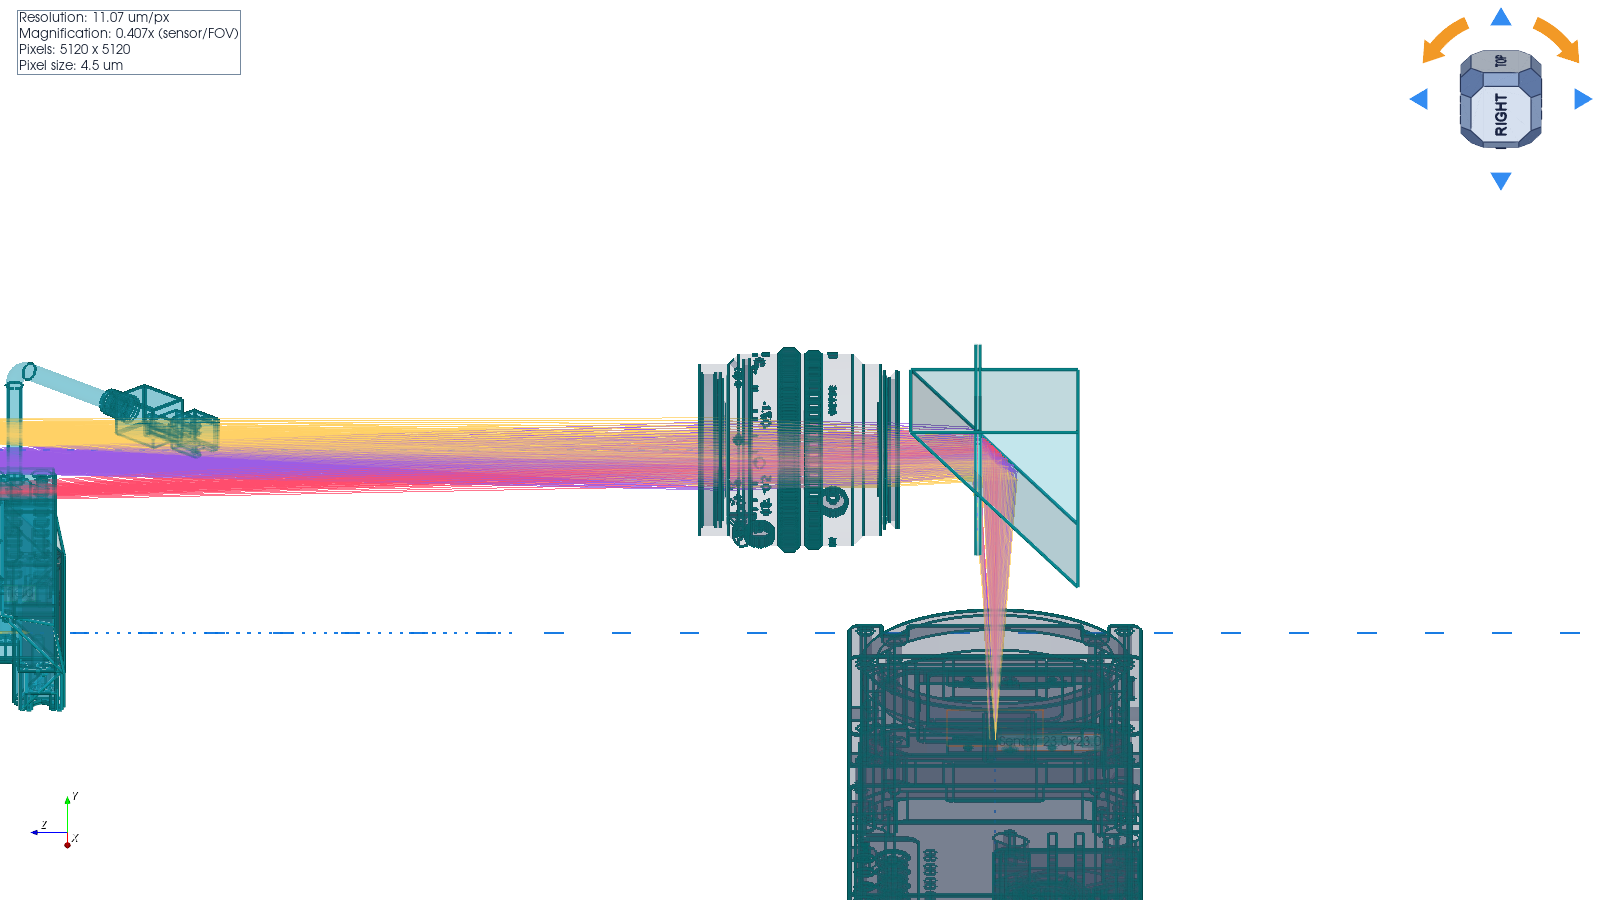
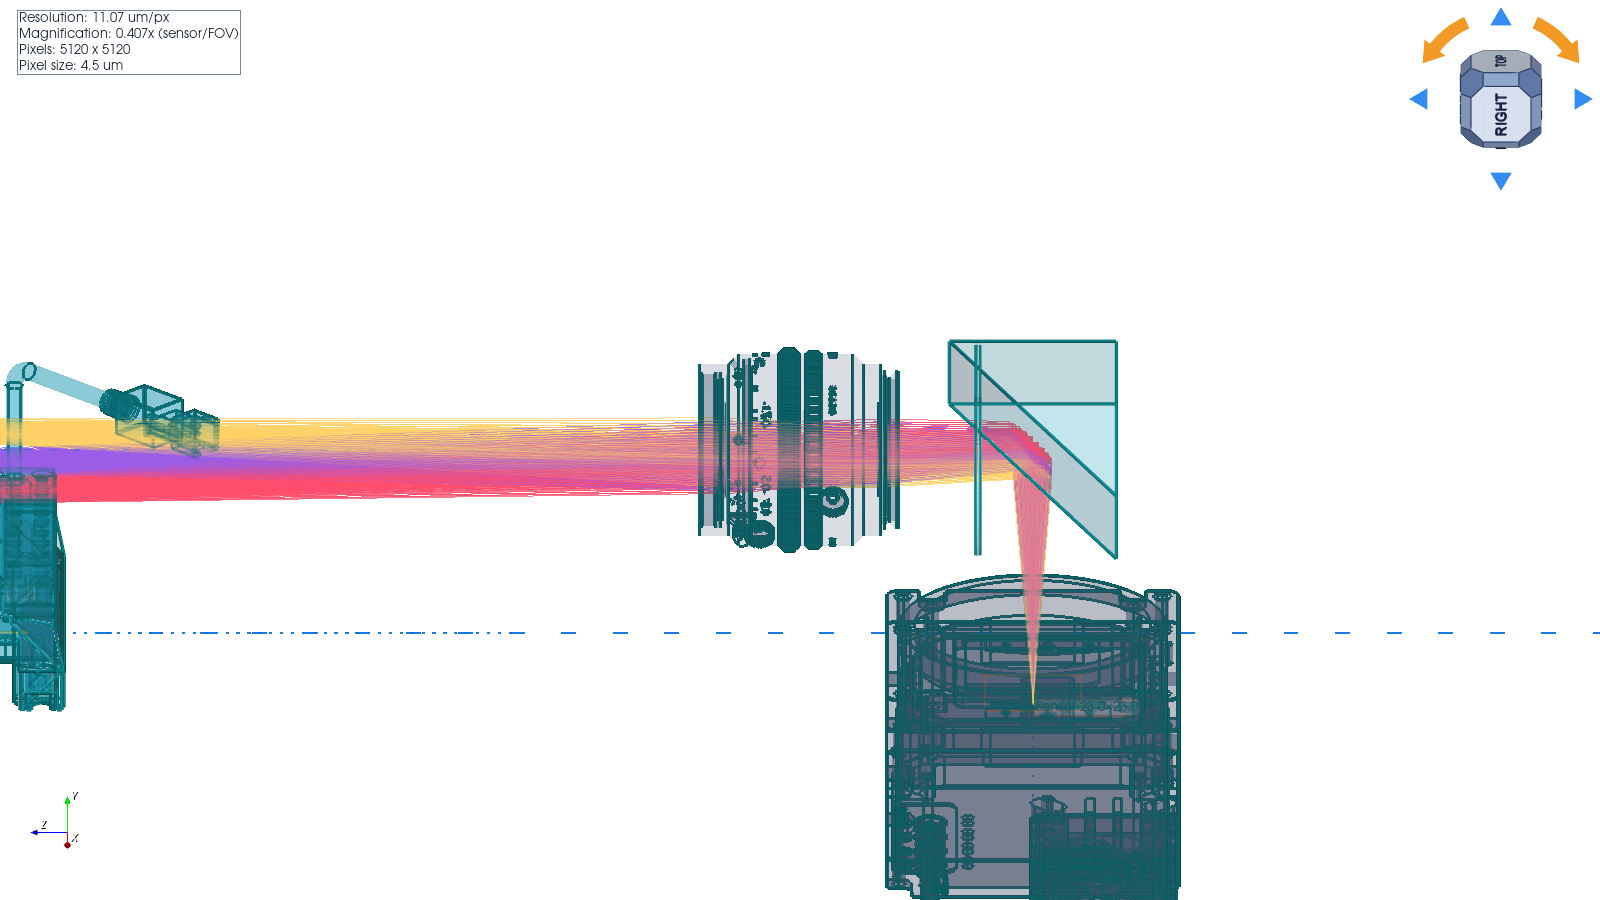
Open 3D: fold-carry pivots on the anchor walk-frame origins (0693 part 2)
Item 3 follow-through: mirror2 (frozen follower ROW) landed 18.7 mm off the
swung leg because the rigid carry pivoted on the EMISSION origin (the arm
chief, 9.46 mm off the walk axis) -- which also silently shrank the
lens-rear -> mirror2 arc 35.2 -> 25.7 mm (a hidden 9.5 mm defocus). The full
T_after inv(T_before) anchor map fixed both but its ROTATION injected the
walk frame's transverse-convention 180-degree roll: the sensor leg folded UP
(y +106 vs the designed 62.65 mm BELOW mirror2) and the one-sided split-field
band flipped sides. Final (all three models measured by tracing): the rigid
carry pivoted on the anchor walk-frame ORIGINS (on-axis = roll-invariant, at
the anchor row's station = arc-exact), tilts by the rigid leg rotation only;
emission-origin fallback when no walk frame exists. Measured: mirror2
(-9.456, 43.294, -297.7) off-leg 0.050 mm (= its authored CAD offset), arc
35.24 mm, sensor folds DOWN to y -19.36, chain reach 580/1083 vs 521
baseline. Known limitation documented: the faceB mirrored-launch instrument
assumes the shared train lies in the symmetry plane -- a PARTIAL rotation
breaks the instrument (not the physics); the whole-station rotate verb is the
production path. Guard D-pins updated (10/10); 0487/0491/0496 + om05a guard
green.

Claude-Session: https://claude.ai/code/session_01SuW8U8ERU6dgJbzEMv2EFu

Changed region(s): [[0.3438, 0.3733, 0.75, 1.0], [0.0, 0.4978, 0.5312, 0.56]]

diff --git a/KrakenOS/UI/services/scene_placement_commands.py b/KrakenOS/UI/services/scene_placement_commands.py
@@ -225,12 +225,39 @@ class ScenePlacementMixin:
                     except Exception:
                         anchor = None
                     bodies[label] = (centre, anchor)
+            # bugs/0693 follow-up (mirror2 off-leg): an ANCHOR walk frame for the emitted
+            # leg -- the fold transform of a walk-posed row riding this leg (the om05a lens
+            # block). The apply step maps every carried frozen row by T_after @ inv(T_before)
+            # so followers land where the WALK says the leg goes; the rigid fold-point model
+            # disagrees with the walk on a seated scene by the seat lateral (mirror2 landed
+            # 18.7 mm off the new leg, in its own mirror plane). None -> rigid fallback,
+            # byte-identical on fully-frozen scenes (no walk transforms there).
+            leg_anchor = None
+            try:
+                z_positions = self._row_z_positions()
+                for index in range(len(self.rows)):
+                    if int(index) == int(row_index):
+                        continue
+                    transform = self._optical_axis_fold_world_transform_for_row(index)
+                    if transform is None:
+                        continue
+                    matrix = np.asarray(transform, dtype=float).reshape(4, 4)
+                    if not np.all(np.isfinite(matrix)):
+                        continue
+                    z = float(z_positions[index]) if index < len(z_positions) else 0.0
+                    point = (matrix @ np.asarray((0.0, 0.0, z, 1.0), dtype=float))[:3]
+                    if axis_tree.point_on_emitted_leg(tree, int(row_index), point):
+                        leg_anchor = (int(index), matrix)
+                        break
+            except Exception:
+                leg_anchor = None
             return (
                 carried,
                 np.asarray(spec["origin"], dtype=float).reshape(3),
                 bodies,
                 self._fold_slide_conjugates(),
                 np.asarray(spec["direction"], dtype=float).reshape(3),
+                leg_anchor,
             )
         except Exception:
             return None
@@ -250,7 +277,7 @@ class ScenePlacementMixin:
         """
         if not captured:
             return
-        carried, fold_before, bodies_before, conjugates_before, direction_before = captured
+        carried, fold_before, bodies_before, conjugates_before, direction_before, leg_anchor = captured
         try:
             from KrakenOS.UI.nonseq_output_ports import axis_fold_emissions
         except Exception:
@@ -274,6 +301,36 @@ class ScenePlacementMixin:
         # 10 deg turns its emitted leg exactly 20.000 deg (the reflection law, which the
         # derivation already got right for free) while the sensor stayed put, 17.614 mm off the
         # beam that now feeds it.
+        # bugs/0693 follow-up: with a leg-anchor walk frame captured, carried rows map by
+        # T_after @ inv(T_before) -- "follow the walk" -- so a frozen follower (mirror2)
+        # lands ON the leg the walk actually emits, seat lateral included. The rigid
+        # fold-point transform stays as the fallback (fully-frozen scenes have no walk
+        # transforms and keep the proven 0488 behaviour byte-identical).
+        # PIVOT CORRECTION ONLY: keep the 0488 rigid transform (rotation = the minimal
+        # leg turn) but pivot it on the ANCHOR WALK-FRAME ORIGINS instead of the raw
+        # emission origin. Measured on the om05a -90 y rotation, this is exactly what
+        # was wrong with each alternative:
+        #  - emission-origin pivot (old code): the emission rides the ARM chief, 9.46 mm
+        #    off the walk axis, so mirror2 landed 18.7 mm off the new leg IN-plane and
+        #    the lens-rear -> mirror2 arc shrank 35.2 -> 25.7 mm (a hidden 9.5 mm
+        #    defocus);
+        #  - full T_after @ inv(T_before) map: the walk's transverse frame convention
+        #    injected a spurious 180-degree ROLL (sensor leg folded UP, 62.66 mm above
+        #    mirror2 where the design sits 62.65 BELOW; the one-sided split-field band
+        #    flipped sides and killed the faceB arm 381 -> 0).
+        # The walk-frame ORIGINS are on the axis (roll-invariant) at the anchor row's
+        # station (arc-exact), and the rigid rotation keeps the physical parity.
+        anchor_origins = None
+        if leg_anchor is not None:
+            try:
+                anchor_after = self._optical_axis_fold_world_transform_for_row(int(leg_anchor[0]))
+                if anchor_after is not None:
+                    o_before = np.asarray(leg_anchor[1], dtype=float).reshape(4, 4)[:3, 3]
+                    o_after = np.asarray(anchor_after, dtype=float).reshape(4, 4)[:3, 3]
+                    if np.all(np.isfinite(o_before)) and np.all(np.isfinite(o_after)):
+                        anchor_origins = (o_before, o_after)
+            except Exception:
+                anchor_origins = None
         self._fold_slide_carry_active = True
         try:
             for carried_index in carried:
@@ -283,7 +340,12 @@ class ScenePlacementMixin:
                 pose = self._fold_carry_row_world_pose(int(carried_index))
                 if pose is None:
                     continue
-                moved = self._fold_carry_transform_point(pose, fold_before, fold_after, rotation)
+                if anchor_origins is not None:
+                    moved = self._fold_carry_transform_point(
+                        pose, anchor_origins[0], anchor_origins[1], rotation
+                    )
+                else:
+                    moved = self._fold_carry_transform_point(pose, fold_before, fold_after, rotation)
                 shift = moved - pose
                 follower.desp_x = float(follower.desp_x) + float(shift[0])
                 follower.desp_y = float(follower.desp_y) + float(shift[1])

diff --git a/bugs/0693_repro_rotation.py b/bugs/0693_repro_rotation.py
@@ -59,6 +59,18 @@ def main():
             print(f"[{tag}] lens BODY centre {np.round([(b[0]+b[1])/2, (b[2]+b[3])/2, (b[4]+b[5])/2], 3)}")
         except Exception as exc:
             print(f"[{tag}] lens body mesh FAILED {exc}")
+        # 0693 follow-up: mirror2 must sit ON the lens leg (the shared axis), not
+        # 18.7 mm off it -- measure its perpendicular distance to the rows' line.
+        try:
+            m2_pose = np.asarray(editor._fold_carry_row_world_pose(m2), dtype=float)
+            a = np.asarray(editor._surface_reference_world_point(lens_rows[0]), dtype=float)
+            b2 = np.asarray(editor._surface_reference_world_point(lens_rows[-1]), dtype=float)
+            d = b2 - a
+            d = d / max(np.linalg.norm(d), 1e-9)
+            off = (m2_pose - a) - np.dot(m2_pose - a, d) * d
+            print(f"[{tag}] m2 world {np.round(m2_pose, 3)}  off-leg {np.linalg.norm(off):.3f} mm")
+        except Exception as exc:
+            print(f"[{tag}] m2 off-leg FAILED {exc}")
 
     snap("before")
 
@@ -77,9 +89,30 @@ def main():
     print(f"calling rotate_scene_row_pose_world_axis(row={m1}, axis={axis_name!r}, delta={signed:.1f})")
     result = editor.rotate_scene_row_pose_world_axis(m1, axis_name, signed)
     print("command result:", str(result)[:200])
-    editor._build_preview_system_rays_bundle(trace_rays=True)
+    system2, rays2, bundle2 = editor._build_preview_system_rays_bundle(trace_rays=True)
 
     snap("after")
+    # the fold must still DELIVER after the rotation -- reach census per arm.
+    # NOTE: additive faceB rays never set reaches_image (the 0672 B5 guard counts
+    # ENDPOINTS) -- measure faceB by end-point distance to the (moved) Image row.
+    img_row = len(editor.rows) - 1
+    img_pt = np.asarray(editor._surface_reference_world_point(img_row, system=system2), dtype=float)
+    chain_reach = face_b_reach = chain_total = face_b_total = 0
+    for rp in (getattr(bundle2, "ray_paths", None) or []):
+        sid = str(getattr(rp, "source_id", "") or "")
+        p = np.asarray(getattr(rp, "points_world", rp), dtype=float)
+        if p.ndim != 2 or p.shape[0] < 2 or not np.all(np.isfinite(p[-1])):
+            continue
+        near_sensor = float(np.linalg.norm(p[-1] - img_pt)) < 30.0
+        if sid == "source:faceB":
+            face_b_total += 1
+            face_b_reach += int(near_sensor)
+        else:
+            chain_total += 1
+            chain_reach += int(bool(getattr(rp, "reaches_image", False)))
+    print(f"[after] sensor ref {np.round(img_pt, 2)}; reach: chain {chain_reach}/{chain_total} "
+          f"(baseline 521/1083), faceB endpoints-near-sensor {face_b_reach}/{face_b_total} "
+          f"(baseline 381)")
     r1 = rows[m1]
     print(f"m1 tilt now ({float(r1.tilt_x):.1f}, {float(r1.tilt_y):.1f}, {float(r1.tilt_z):.1f}) "
           f"(flag says (-90, 0, 0))")

diff --git a/KrakenOS/UI/validate_open3d_0693_step_offset_frame.py b/KrakenOS/UI/validate_open3d_0693_step_offset_frame.py
@@ -113,13 +113,44 @@ def _check_frame_lookup(ok, notes) -> None:
     ok(np.allclose(r, np.eye(3)), "C4: a missing transform degrades to identity")
 
 
+def _check_carry_anchor_wiring(ok, notes) -> None:
+    """D (mirror2 follow-up): the fold-carry captures a leg-anchor walk frame and maps
+    carried rows by T_after @ inv(T_before), with the 0488 rigid transform as fallback --
+    source-pinned like 0487/0491/0496 (the om05a rotation repro is the behavioural proof:
+    mirror2 lands ON the swung leg instead of 18.7 mm off it)."""
+    import inspect
+
+    from KrakenOS.UI.services.scene_placement_commands import ScenePlacementMixin
+
+    before_src = inspect.getsource(ScenePlacementMixin._fold_slide_carry_before)
+    apply_src = inspect.getsource(ScenePlacementMixin._fold_slide_carry_apply)
+    ok(
+        "leg_anchor" in before_src
+        and "point_on_emitted_leg(tree, int(row_index), point)" in before_src,
+        "D1: the before-capture derives a leg-anchor walk frame via the SAME membership "
+        "primitive the bodies use",
+    )
+    ok(
+        "anchor_origins[0], anchor_origins[1], rotation" in apply_src
+        and "self._fold_carry_transform_point(pose, fold_before, fold_after, rotation)" in apply_src,
+        "D2: the apply pivots the rigid carry on the anchor walk-frame ORIGINS (roll-"
+        "invariant, arc-exact) and keeps the emission-origin fallback",
+    )
+    ok(
+        "anchor_rotation" not in apply_src
+        and "self._fold_carry_rotate_row_tilts(follower, rotation)" in apply_src,
+        "D3: carried tilts turn ONLY with the rigid leg rotation -- the walk frame's "
+        "roll convention must never reach an orientation (it folded the sensor leg UP)",
+    )
+
+
 def run_checks(verbose: bool = False, app=None, inspector=None) -> "tuple[bool, list[str]]":
     notes: list[str] = []
 
     def ok(condition: bool, message: str) -> None:
         notes.append(("PASS: " if condition else "FAIL: ") + message)
 
-    for check in (_check_writers, _check_frame_lookup):
+    for check in (_check_writers, _check_frame_lookup, _check_carry_anchor_wiring):
         try:
             check(ok, notes)
         except Exception as exc:

diff --git a/bugs/0693_step_offset_frame.md b/bugs/0693_step_offset_frame.md
@@ -47,12 +47,44 @@ the carry works). Repro matches the flag EXACTLY: m2 desp (9.2197, 43.5303,
   your rows"), falling back to the 0488 rigid fold-point transform only when no
   anchor frame exists. Identity/None frames are byte-identical to the old code.
 
-## Known follow-up (optically neutral, visually off)
-Mirror2 (a frozen follower ROW) still carries by the rigid model: it lands
-~18.7 mm off the new leg IN ITS OWN MIRROR PLANE (plane unchanged — the fold
-still works, rays reach the sensor; verified in the flag itself). The drawn
-prism sits visibly off the beam; carrying frozen follower rows anchor-relative
-is the next step if the user flags it.
+## Part 2 (user: "proceed with item 3") — frozen follower ROWS follow the walk too
+Mirror2 (a frozen follower ROW) still carried by the rigid model: it landed
+~18.7 mm off the new leg IN ITS OWN MIRROR PLANE (optically neutral — the flag
+itself showed rays reaching the sensor — but drawn visibly off the beam).
+Fix, same principle as the bodies: `_fold_slide_carry_before` captures a
+LEG-ANCHOR walk frame (the fold transform of a walk-posed row riding the
+emitted leg, membership decided by the same `point_on_emitted_leg` primitive
+the bodies use), and `_fold_slide_carry_apply` maps every carried row by
+T_after @ inv(T_before) — position AND tilts (anchor rotation). The rigid
+0488 fold-point transform remains the fallback when no walk frame exists
+(fully-frozen scenes stay byte-identical).
+
+Three carry models measured (bugs/0693_repro_rotation.py) before the final one:
+- EMISSION-ORIGIN rigid (old): mirror2 18.7 mm off-leg; lens-rear→mirror2 arc
+  shrank 35.2 → 25.7 mm (a hidden 9.5 mm defocus nobody had measured).
+- FULL T_after@inv(T_before) map: position + arc exact, but the walk frame's
+  transverse convention injected a spurious 180° ROLL — the sensor leg folded
+  UP (y +106, 62.66 above mirror2 where the design sits 62.65 BELOW) and the
+  one-sided split-field band flipped sides. Euler triples ((-180,0,-180) vs
+  (180,0,0)) must be settled by TRACING, never by reading angles.
+- FINAL: the rigid carry PIVOTED ON THE ANCHOR WALK-FRAME ORIGINS (on-axis =
+  roll-invariant; at the anchor row's station = arc-exact) with the rigid leg
+  rotation for tilts. Measured: mirror2 (-9.456, 43.294, -297.7), off-leg
+  0.050 mm (= its authored CAD offset), arc 35.24 mm ✓, sensor folds DOWN to
+  y -19.36 ✓, chain reach 580/1083 vs 521 baseline (a centred mirror2
+  vignettes less), lens body rides its rows (residual ~1e-15).
+
+## Known limitation — faceB's mirrored launch under a PARTIAL rotation
+Post-rotation faceB reach is 0: the additive mirrored-launch instrument
+(`mirror_launch_plane_z: -25`, 0680) assumes the SHARED train lies in the
+symmetry plane — true for the saved scene (lens axis in z=-25), broken when
+only the shared train swings. Face B's light physically still images (it joins
+the common junction), but the mirror-trick launch aims at a stale mirrored
+stop. Moot for production: the real second station rotates the WHOLE assembly
+(part + both trains), which preserves the symmetry — the planned "rotate
+station about the device axis" verb is the correct vehicle (and should carry
+the mirror-plane spec with it). The 0672 guard's canonical-scene B5 (381)
+stays green.
 
 ## Guards
 `validate_open3d_0693_step_offset_frame` (penta phase 509): seater/shift write
